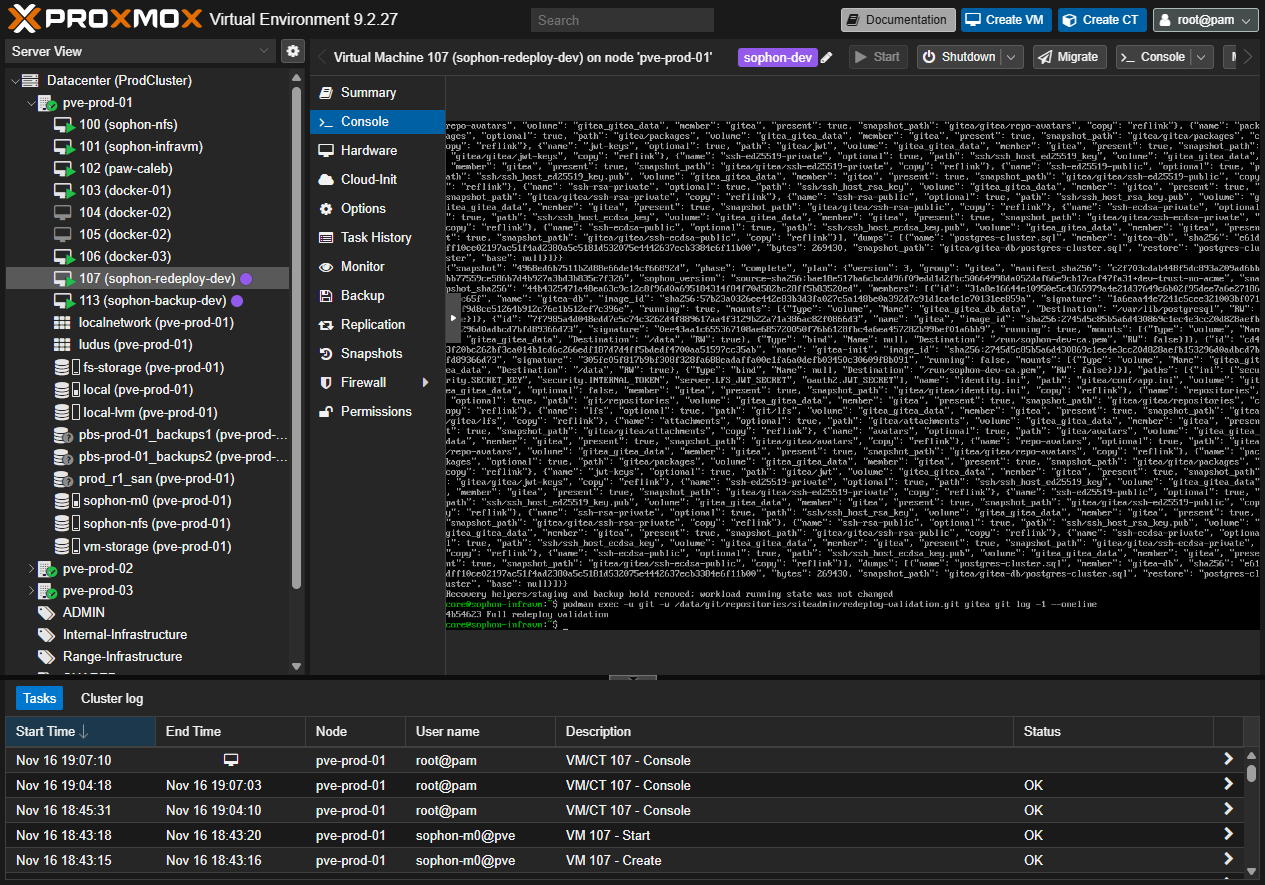
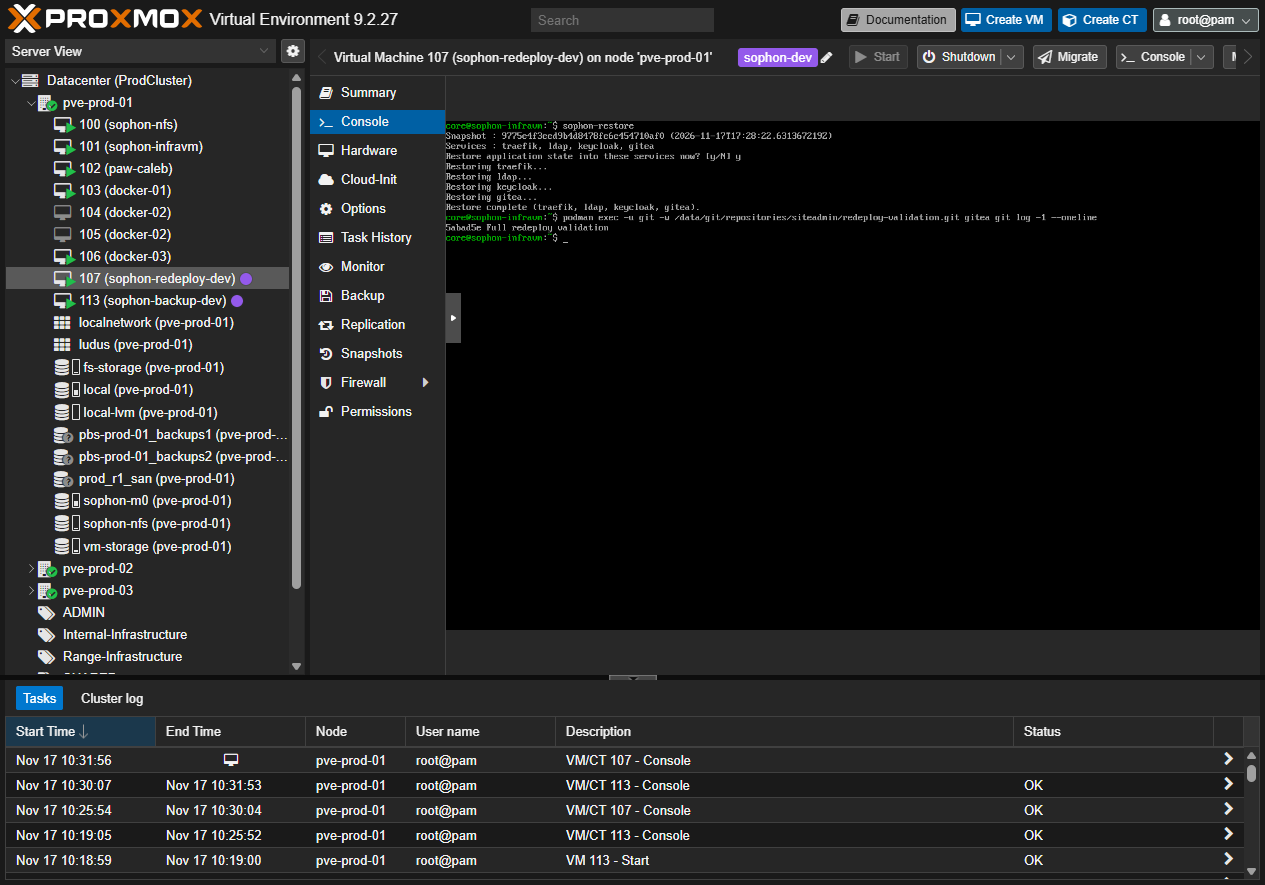
Simplify backup activation and sophon-restore UX, and document Kopia Web UI
- Default SOPHON_KOPIA_BACKUPS_ENABLED to true and verify the initial primary
  snapshot inside Configure so Day-1 deployment enables scheduled backups in a
  single pass (while offering to pause scheduled backups when a newly installed
  VM connects interactively to an existing repository before recovery).
- Automatically refresh the Kopia Web UI server index (/api/v1/repo/sync) after
  primary and coarse uploads so snapshots appear immediately in the UI.
- Add an inspect action to restore.py and make bare sophon-restore discover all
  stateful services in the snapshot, confirm once, and run plan/apply/cleanup
  in order automatically.
- Add Kopia Web UI browsing screenshots and clarified stateful-vs-reconstructible
  explanations to docs/operator-guide.md.

diff --git a/roles/kopia/files/restore.py b/roles/kopia/files/restore.py
@@ -584,9 +584,52 @@ def plan(api, root, environment, snapshot_id, group):
     return state
 
 
+GROUP_ORDER = ("traefik", "ldap", "keycloak", "gitea")
+
+
+def inspect_snapshot(environment, snapshot_id, selected_group=None):
+    runtime.connect(environment)
+    source = environment["KOPIA_CLIENT_USERNAME"] + "@" + environment["KOPIA_CLIENT_HOSTNAME"] + ":/sophon-state"
+    snapshots = json.loads(runtime.kopia(environment, "snapshot", "list", source, "--json"))
+    if not snapshots:
+        backup.fail("No snapshots exist for the configured source")
+    if snapshot_id == "latest":
+        chosen = max(snapshots, key=lambda value: value["endTime"])
+    else:
+        if not re.fullmatch(r"[a-f0-9]{32}", snapshot_id):
+            backup.fail("Snapshot must be latest or an exact snapshot ID")
+        matches = [value for value in snapshots if value["id"] == snapshot_id]
+        if not matches:
+            backup.fail(f"Snapshot {snapshot_id} not found for {source}")
+        chosen = matches[0]
+    tree = json.loads(runtime.kopia(environment, "show", chosen["rootEntry"]["obj"]))
+    manifest_obj = next((e["obj"] for e in tree.get("entries", []) if e.get("name") == "manifest.json"), None)
+    if not manifest_obj:
+        backup.fail("Snapshot is missing manifest.json")
+    manifest = json.loads(runtime.kopia(environment, "show", manifest_obj))
+    failed = {item["group"] for item in manifest.get("failures", [])}
+    groups = [
+        group for group in manifest.get("groups", [])
+        if (group.get("paths") or group.get("dumps")) and group["name"] not in failed
+    ]
+    if selected_group:
+        groups = [group for group in groups if group["name"] == selected_group]
+        if not groups:
+            backup.fail(f"Snapshot {chosen['id']} has no restorable state for group '{selected_group}'")
+    groups.sort(key=lambda g: (GROUP_ORDER.index(g["name"]) if g["name"] in GROUP_ORDER else len(GROUP_ORDER), g["name"]))
+    return {
+        "snapshot": chosen["id"],
+        "timestamp": chosen["endTime"],
+        "groups": [
+            {"name": g["name"], "paths": len(g.get("paths", [])), "dumps": len(g.get("dumps", []))}
+            for g in groups
+        ],
+    }
+
+
 def main():
     parser = argparse.ArgumentParser(description=__doc__)
-    parser.add_argument("action", choices=("plan", "apply", "status", "cleanup", "files"))
+    parser.add_argument("action", choices=("plan", "apply", "status", "cleanup", "files", "inspect"))
     parser.add_argument("--group")
     parser.add_argument("--snapshot", default="latest")
     parser.add_argument("--approve", action="store_true")
@@ -623,8 +666,11 @@ def main():
         if args.action == "status":
             print(json.dumps(state_file(root)))
             return 0
-        api = {"socket": "/socket/podman.sock", "timeout": 3600}
         environment = connection_environment(args.connection_stdin)
+        if args.action == "inspect":
+            print(json.dumps(inspect_snapshot(environment, args.snapshot, args.group)))
+            return 0
+        api = {"socket": "/socket/podman.sock", "timeout": 3600}
         with backup.locked(root):
             if args.action in ("apply", "cleanup") and not args.approve:
                 backup.fail("Destructive recovery actions require explicit approval (--approve)")

diff --git a/tests/test_restore.py b/tests/test_restore.py
@@ -170,6 +170,38 @@ class RestoreTests(unittest.TestCase):
             self.assertTrue(all(value["State"]["Running"] for value in members.values()))
             self.assertEqual(helpers, {})
 
+    def test_inspect_snapshot_returns_ordered_stateful_groups_and_omits_reconstructible_groups(self):
+        from unittest.mock import patch
+        snap_id = "d" * 32
+        manifest = {
+            "version": 3,
+            "failures": [],
+            "groups": [
+                {"name": "arcane", "paths": [], "dumps": []},
+                {"name": "gitea", "paths": [{"name": "repos"}], "dumps": [{"name": "db"}]},
+                {"name": "coredns", "paths": [], "dumps": []},
+                {"name": "traefik", "paths": [{"name": "acme"}], "dumps": []},
+                {"name": "keycloak", "paths": [], "dumps": [{"name": "db"}]},
+                {"name": "ldap", "paths": [], "dumps": [{"name": "ldif"}]},
+            ],
+        }
+
+        def fake_kopia(env, *args, **kwargs):
+            if args[:2] == ("snapshot", "list"):
+                return json.dumps([{"id": snap_id, "endTime": "2026-11-17T16:34:23Z",
+                                    "rootEntry": {"obj": "kroot"}}]).encode()
+            if args == ("show", "kroot"):
+                return json.dumps({"entries": [{"name": "manifest.json", "obj": "kman"}]}).encode()
+            if args == ("show", "kman"):
+                return json.dumps(manifest).encode()
+            raise AssertionError(args)
+
+        with patch.object(restore.runtime, "connect"), patch.object(restore.runtime, "kopia", side_effect=fake_kopia):
+            summary = restore.inspect_snapshot(
+                {"KOPIA_CLIENT_USERNAME": "backup", "KOPIA_CLIENT_HOSTNAME": "sophon"}, "latest")
+        self.assertEqual(summary["snapshot"], snap_id)
+        self.assertEqual([g["name"] for g in summary["groups"]], ["traefik", "ldap", "keycloak", "gitea"])
+
 
 if __name__ == "__main__":
     unittest.main()

diff --git a/src/backup_destination.py b/src/backup_destination.py
@@ -204,6 +204,7 @@ def prepare(values, *, root, confirm=None):
                       (f'{available // (1024 * 1024)} MiB available (not a backup-size guarantee).'
                        if available is not None else 'the server does not report free space.'))
                 result = repository(values, directory, keyfile, known_hosts, 'connect')
+                created_repository = False
                 if result.returncode and result.stderr.strip() == NOT_INITIALIZED:
                     if not unused_destination(sftp, path):
                         raise ValueError('No Kopia repository found, but the destination is not empty; refusing creation.')
@@ -214,7 +215,12 @@ def prepare(values, *, root, confirm=None):
                         raise ValueError('The destination changed during confirmation; refusing repository creation.')
                     check_repository_result(repository(values, directory, keyfile, known_hosts, 'create'), values)
                     result = repository(values, directory, keyfile, known_hosts, 'connect')
+                    created_repository = True
                 check_repository_result(result, values)
+                if (not created_repository and generated and confirm is not None
+                        and values.get('SOPHON_KOPIA_BACKUPS_ENABLED') == 'true'):
+                    if not confirm('Existing backup repository found on this new VM. Start scheduled backups immediately (answer n if restoring first)?'):
+                        values['SOPHON_KOPIA_BACKUPS_ENABLED'] = 'false'
         values[MATERIAL[0]] = base64.b64encode(keyfile.read_bytes()).decode()
         values[MATERIAL[1]] = base64.b64encode(known_hosts.read_bytes()).decode()
     print('Kopia repository preflight passed. Service deployment can proceed.')

diff --git a/roles/kopia/files/runtime.py b/roles/kopia/files/runtime.py
@@ -40,7 +40,7 @@ def startup_diagnostic(error, environment):
     return "KOPIA_STARTUP_ERROR_JSON=" + json.dumps({"message": detail})
 
 
-def health(environment):
+def _ui_session(environment):
     authorization = base64.b64encode((required(environment, "KOPIA_SERVER_USERNAME") + ":" +
                                      required(environment, "KOPIA_SERVER_PASSWORD")).encode()).decode()
     headers = {"Authorization": "Basic " + authorization}
@@ -50,11 +50,30 @@ def health(environment):
     if token is None:
         raise RuntimeError("Kopia UI did not issue a CSRF token")
     headers["X-Kopia-Csrf-Token"] = token[1]
+    return opener, headers
+
+
+def health(environment):
+    opener, headers = _ui_session(environment)
     with opener.open(urllib.request.Request("http://127.0.0.1:51515/api/v1/repo/status", headers=headers),
                      timeout=10) as response:
         if json.load(response).get("connected") is not True:
             raise RuntimeError("Kopia repository is disconnected")
     print("Repository connected")
+
+
+def sync_ui(environment):
+    if not environment.get("KOPIA_SERVER_USERNAME") or not environment.get("KOPIA_SERVER_PASSWORD"):
+        return
+    try:
+        opener, headers = _ui_session(environment)
+        request = urllib.request.Request(
+            "http://127.0.0.1:51515/api/v1/repo/sync", data=b"{}",
+            headers=headers | {"Content-Type": "application/json"}, method="POST")
+        with opener.open(request, timeout=30) as response:
+            response.read()
+    except OSError:
+        pass
 
 
 def connect(environment):

diff --git a/src/deployment.py b/src/deployment.py
@@ -75,7 +75,7 @@ FIELDS = {
     'SOPHON_KOPIA_CLIENT_USERNAME': ('Backup source username', 'Backup', 'text', 'backup', True),
     'SOPHON_KOPIA_CLIENT_HOSTNAME': ('Backup source hostname', 'Backup', 'text', 'sophon', True),
     'SOPHON_KOPIA_EXTRA_VOLUMES': ('Additional site workload volumes (JSON array)', 'Backup', 'text', '[]', False),
-    'SOPHON_KOPIA_BACKUPS_ENABLED': ('Enable scheduled backups (after first verified backup)', 'Backup', 'choice', 'false', True),
+    'SOPHON_KOPIA_BACKUPS_ENABLED': ('Enable scheduled backups', 'Backup', 'choice', 'true', True),
     'SOPHON_KOPIA_SNAPSHOT_INTERVAL': ('Snapshot interval', 'Backup', 'text', '6h', True),
     'SOPHON_KOPIA_COARSE_ENABLED': ('Enable weekly live Btrfs volume snapshots (true/false)', 'Backup', 'choice', 'false', False),
     'SOPHON_KOPIA_COARSE_VOLUMES_DIR': ('Host Btrfs Podman volumes subvolume (read-only source)', 'Backup', 'text',

diff --git a/tests/test_kopia.py b/tests/test_kopia.py
@@ -117,6 +117,8 @@ class KopiaRoleTests(unittest.TestCase):
                 "args = sys.argv[1:]\n"
                 "if 'inspect' in args:\n"
                 f"    print('unhealthy' if pathlib.Path({str(state)!r}).exists() else 'healthy')\n"
+                "elif 'exec' in args:\n"
+                "    print(json.dumps({'status': 'complete', 'failures': []}))\n"
                 "elif 'logs' in args:\n"
                 "    sys.stderr.write('KOPIA_STARTUP_ERROR_JSON=' + json.dumps({\n"
                 "        'message': 'invalid repository password FIXTURE_SECRET_VALUE fixture-private-key'}) + '\\n')\n"

diff --git a/tests/test_backup_destination.py b/tests/test_backup_destination.py
@@ -169,6 +169,12 @@ class DestinationTests(unittest.TestCase):
         self.assertFalse((self.root / 'credentials/kopia/id_ed25519').exists())
         self.assertNotIn(material.decode(), output)
 
+    def test_existing_repository_on_new_vm_can_pause_scheduled_backups_until_restore(self):
+        self.initialized = True
+        self.answers = [True, True, False]
+        values, _ = self.prepare()
+        self.assertEqual(values['SOPHON_KOPIA_BACKUPS_ENABLED'], 'false')
+
 
 if __name__ == '__main__':
     unittest.main()

diff --git a/roles/kopia/files/backup.py b/roles/kopia/files/backup.py
@@ -614,6 +614,8 @@ def run(environment):
         manifest["upload_status"] = "complete"
         write_json(root / "last-run.json", manifest)
         shutil.rmtree(result["path"])
+        import runtime
+        runtime.sync_ui(environment)
         print(json.dumps({"status": manifest["status"], "failures": manifest["failures"],
                           "snapshot": manifest["snapshot"]}))
         return 1 if manifest["failures"] else 0

diff --git a/roles/kopia/files/coarse.py b/roles/kopia/files/coarse.py
@@ -202,6 +202,7 @@ def run(environment):
                                                    "source": identity, "run": pending["run"]})
         (work / "pending.json").unlink()
         cleanup_staging(work)
+        runtime.sync_ui(environment)
         print(json.dumps({"status": "complete", "snapshot": result["id"], "source": identity}), flush=True)
 
 

diff --git a/docs/operator-guide.md b/docs/operator-guide.md
@@ -144,7 +144,7 @@ After applying the static address, `sophon-deploy` finishes host bootstrap (`sop
 
 1. **Internet access (`[Y/n]`):** Keep **Y** for connected sites (Let's Encrypt DNS-01 + optional Cloudflare tunnel), or answer **n** for air-gapped/offline sites using a pre-issued `acme.json` (`SOPHON_CERTS` disk).
 2. **Shared service password (`[y/N]`):** Answer **y** if you want to enter one `12+` character password once for local admin/database accounts, or **n** to enter separate passwords per service. Note that the **Kopia repository encryption password** is always entered separately—store it in your password manager, as backups cannot be decrypted without it.
-3. **Backup target (`SOPHON_KOPIA_SFTP_*`):** Enter your SFTP server IP/hostname, port (`22`), username (`sophon-backup`), and chroot-relative path (`/repository`). Leave `SOPHON_KOPIA_BACKUPS_ENABLED` at `false` until you verify your first snapshot (or enable `SOPHON_KOPIA_COARSE_ENABLED=true` if you also want weekly live Btrfs volume snapshots).
+3. **Backup target (`SOPHON_KOPIA_SFTP_*`):** Enter your SFTP server IP/hostname, port (`22`), username (`sophon-backup`), and chroot-relative path (`/repository`). `SOPHON_KOPIA_BACKUPS_ENABLED` defaults to `true`: `sophon-deploy` automatically runs and verifies the initial snapshot at the end of deployment and starts the 6-hour schedule in a single pass (no second rerun needed). Optionally set `SOPHON_KOPIA_COARSE_ENABLED=true` if you also want weekly zero-downtime Btrfs volume snapshots.
 
 Before deploying any container stack, `sophon-deploy` generates `/var/lib/sophon/project/credentials/kopia/id_ed25519` (`0600`), prints a ready-to-paste `authorized_keys` line, and scans the SFTP server's SSH host keys:
 
@@ -186,30 +186,34 @@ Next, verify Git hosting at `https://git.<domain>` (using **Sign In With Keycloa
 
 ---
 
-## 6. Backups & Zero-Downtime Weekly Btrfs Snapshots
+## 6. Kopia Web UI, On-Demand Backups & Live Btrfs Snapshots
 
-### 6.1 Run and verify the first primary backup
+### 6.1 Browse snapshots & download individual files in the Kopia Web UI
 
-From the InfraVM console (logged in as `core`), trigger an immediate primary v3 snapshot and inspect its report:
+When `sophon-deploy` finishes with `SOPHON_KOPIA_BACKUPS_ENABLED=true` (the default), Sophon has already executed and verified your first primary backup and enabled the automatic `6h` schedule.
+
+To browse snapshot history or download individual files from a browser, open `https://kopia.<domain>` and sign in with your Kopia UI username (`admin`) and password. Switch the filter button at the top left from **Local Snapshots** to **All Snapshots** to view `/sophon-state` (primary 6-hour backups) and, if enabled, `/sophon-coarse` (weekly live Btrfs volume snapshots):
+
+![Kopia Web UI showing /sophon-state and /sophon-coarse snapshot sources](./images/10b-kopia-ui-snapshots.png)
+
+Click `/sophon-state` and select any snapshot timestamp to inspect its directory tree or download individual files directly:
+
+![Browsing inside a /sophon-state snapshot in the Kopia Web UI](./images/10c-kopia-ui-browse.png)
+
+> **What to do in the Kopia Web UI vs. the CLI:**
+> - **Use the Kopia Web UI** for inspecting snapshot history, checking sizes/retention, and downloading individual files (for example grabbing one file out of `gitea/` or inspecting `manifest.json`).
+> - **Do not use the Kopia Web UI's "Snapshot Now" or "Restore" buttons to back up or restore live containers**, and do not edit repository settings in the UI (Sophon reconciles configuration from code). Kopia itself is a file uploader whose container mounts live volumes **read-only (`:ro`)**: it cannot run `pg_dumpall`/`psql` for PostgreSQL or `slapcat`/`slapadd` for OpenLDAP, pause/restart containers, or merge generated secrets into `app.ini`. Sophon's collector (`backup.py`) and recovery command (`sophon-restore`) handle all database exports/imports and container orchestration automatically.
+
+### 6.2 Trigger an on-demand backup or inspect Btrfs snapshot status
+
+From the InfraVM console (logged in as `core`), you can trigger an extra primary backup or inspect the latest run report at any time:
 
 ```bash
 podman exec kopia python3 /app/backup.py run
 podman exec kopia cat /source/last-run.json
-podman exec kopia kopia snapshot list --all
 ```
 
-Confirm `"status": "complete"` and `"failures": []`. Notice that `backup.py run` also prints every undeclared volume (such as `arcane_arcane_data` and database data directories that are backed up via logical dumps rather than raw file copies) so omissions are always visible.
-
-### 6.2 Enable scheduled backups
-
-Once your first snapshot succeeds, rerun `sophon-deploy` to enable the automatic 6-hour schedule (and optionally weekly live Btrfs snapshots):
-
-- Set `SOPHON_KOPIA_BACKUPS_ENABLED` to `true` (default interval `6h`).
-- Optionally set `SOPHON_KOPIA_COARSE_ENABLED` to `true` to enable weekly zero-downtime read-only Btrfs subvolume snapshots (`backup@sophon:/sophon-coarse`, keeping the latest 4).
-
-Because the client SSH key and verified SFTP host pins are already saved under `/var/lib/sophon/project/credentials/kopia`, rerunning `sophon-deploy` reuses them automatically without re-prompting for pairing or repository creation.
-
-To check Btrfs filesystem and coarse-snapshot status at any time:
+If you enabled weekly zero-downtime read-only Btrfs subvolume snapshots (`SOPHON_KOPIA_COARSE_ENABLED=true`), you can inspect `/var` mount options and the latest weekly snapshot status with:
 
 ```bash
 findmnt /var
@@ -220,43 +224,39 @@ cat /var/home/core/sophon-coarse/last-run.json
 
 ## 7. Disaster Recovery (`sophon-restore`)
 
-If InfraVM or its virtual disk is completely lost, rebuild from code first and then restore application state explicitly. `sophon-deploy` **never** restores data automatically.
+If InfraVM or its virtual disk is completely lost, rebuild from code first and then restore application state with a single command. `sophon-deploy` **never** restores data automatically.
 
 ### 7.1 Rebuild InfraVM & reconnect to the existing Kopia repository
 
 1. Provision a new blank VM with `sophon-installer.iso` and `sophon-deployment.iso` (Section 3) and complete first-boot password and network setup (Sections 4.1–4.2).
-2. Run `sophon-deploy` using the same domain, realm, and SFTP repository settings (`SOPHON_KOPIA_PASSWORD`, `SOPHON_KOPIA_SFTP_HOST`, `SOPHON_KOPIA_SFTP_USERNAME`, `SOPHON_KOPIA_SFTP_PATH`), **keeping `SOPHON_KOPIA_BACKUPS_ENABLED=false` and `SOPHON_KOPIA_COARSE_ENABLED=false` during recovery** so scheduled jobs do not write a blank-state snapshot before restoration finishes.
+2. Run `sophon-deploy` using the same domain, realm, and SFTP repository settings (`SOPHON_KOPIA_PASSWORD`, `SOPHON_KOPIA_SFTP_HOST`, `SOPHON_KOPIA_SFTP_USERNAME`, `SOPHON_KOPIA_SFTP_PATH`).
 3. Because this is a new VM, `sophon-deploy` generates a **new** `ed25519` SSH key. On your Sophon Backup Server console, run `sophon-authorize-key`, paste the newly displayed `restrict ssh-ed25519 ...` line, and confirm the server's `SHA256:...` host-key fingerprints on InfraVM.
-4. `sophon-deploy` detects the **existing** Kopia repository at `/repository` automatically (it will **not** prompt to create one) and deploys fresh, healthy stacks.
+4. `sophon-deploy` automatically detects the **existing** Kopia repository at `/repository` (it will **not** prompt to create one) and asks:
+   `Existing backup repository found on this new VM. Start scheduled backups immediately (answer n if restoring first)? [y/N]`
+   Press **Enter** (`n`) so scheduled backups stay paused until you finish restoring your data.
 
-### 7.2 Restore stateful workload groups
+### 7.2 Run `sophon-restore`
 
-Log in to the rebuilt InfraVM console as `core` (never with `sudo`) and inspect available snapshots:
+Of Sophon's services, `coredns`, `cloudflared`, `arcane`, and `kopia` hold no user data of their own (notice `0 Files` next to `arcane/`, `coredns/`, and `kopia/` in the Kopia UI screenshot above)—they are already 100% rebuilt as soon as `sophon-deploy` finishes. Your irreproducible data lives in the four stateful services:
+
+- **`traefik`** — issued TLS certificate (`acme.json`)
+- **`ldap`** — directory users, passwords, and groups
+- **`keycloak`** — SSO realm and OIDC clients
+- **`gitea`** — Git repositories, issues, SSH/JWT keys, and database
+
+Log in to the rebuilt InfraVM console as `core` (never with `sudo`) and run:
 
 ```bash
-podman exec kopia kopia snapshot list --all
+sophon-restore
 ```
 
-Sophon has four stateful backup groups (`traefik`, `ldap`, `keycloak`, `gitea`); `coredns`, `cloudflared`, `arcane`, and `kopia` are fully reconstructed by `sophon-deploy`. Restore each stateful group using `plan`, `apply --approve`, and `cleanup --approve`:
+`sophon-restore` inspects the latest snapshot, lists the stateful services found in it, asks once for confirmation (`[y/N]`), and automatically restores all of them in order—pausing each service briefly, restoring files via Btrfs CoW reflinks with numeric ownership preserved, replaying PostgreSQL/OpenLDAP dumps, restarting the containers, and cleaning up temporary staging:
 
-```bash
-for group in traefik ldap keycloak gitea; do
-    sophon-restore plan --group "$group"
-    sophon-restore apply --group "$group" --approve
-    sophon-restore cleanup --approve
-done
-```
+![Interactive single-command sophon-restore recovering traefik, ldap, keycloak, and gitea](./images/11-sophon-restore.png)
 
-For each group, `sophon-restore`:
+*(Need to roll back only one service or use a specific older snapshot? Run `sophon-restore --group gitea` or `sophon-restore --snapshot <SNAPSHOT_ID>`. Low-level `plan`, `apply`, `status`, and `cleanup` subcommands also remain available—see the [Kopia role reference](../roles/kopia/README.md#explicit-group-restoration).)*
 
-1. Places a durable recovery hold (`/source/restore.json`) blocking primary/coarse backup runs until cleanup finishes.
-2. Verifies running container names, immutable image digests, backup declarations, and volume mounts against the snapshot manifest.
-3. Stops the target group's writers, restores declared irreproducible files using Btrfs CoW reflinks with numeric ownership preserved (merging generated application secrets such as Gitea's `SECRET_KEY` / `INTERNAL_TOKEN` into the freshly rendered `app.ini`), replays native `postgres-cluster.sql` / `config.ldif` + `data.ldif` dumps, and restarts the group.
-4. Removes temporary staging and clears the backup hold on `sophon-restore cleanup --approve`.
-
-![Live console execution of sophon-restore recovering Gitea repository and commit history](./images/11-sophon-restore.png)
-
-### 7.3 Post-recovery verification & schedule re-enablement
+### 7.3 Verify & resume scheduled backups
 
 1. Sign in to `https://arcane.<domain>` and `https://git.<domain>` via Keycloak SSO and verify your LDAP users, Keycloak clients, TLS certificates, and Git repositories/commit history match pre-loss state.
-2. Rerun `sophon-deploy` with `SOPHON_KOPIA_BACKUPS_ENABLED=true` (and `SOPHON_KOPIA_COARSE_ENABLED=true` if used) to resume scheduled backups from the recovered instance.
+2. Rerun `sophon-deploy` accepting the default `SOPHON_KOPIA_BACKUPS_ENABLED=true` (and `SOPHON_KOPIA_COARSE_ENABLED=true` if used) to resume scheduled backups on the recovered VM.

diff --git a/docs/inputs.md b/docs/inputs.md
@@ -114,7 +114,7 @@ These are Configure inputs on InfraVM, not laptop `.env` settings:
 | `SOPHON_KOPIA_CREATE_REPOSITORY` | Optional unattended creation confirmation (`true`); default `false`. Used only for an exact missing repository on an unused path, never an existing repository or other error. No reset/rerun step is needed. |
 | `SOPHON_KOPIA_CLIENT_USERNAME`, `_CLIENT_HOSTNAME` | Stable snapshot source identity, default `backup@sophon`. Preserve it on reruns/recovery. |
 | `SOPHON_KOPIA_EXTRA_VOLUMES` | Site workload volume names as a JSON array, default `[]`. Core roles declare their own list. These become read-only mounts, not host paths. Retain the list in site IaC and redeploy after changes. |
-| `SOPHON_KOPIA_BACKUPS_ENABLED` | `false` until a first full backup is verified. Set `true` to enable scheduled backups; keep the existing value on reruns. |
+| `SOPHON_KOPIA_BACKUPS_ENABLED` | Default `true` (Configure runs and verifies the initial primary snapshot automatically and enables the schedule in one step; interactive pairing of a new VM to an existing repository offers to pause until `sophon-restore` runs). |
 | `SOPHON_KOPIA_SNAPSHOT_INTERVAL` | Default `6h`; positive integer with `s`, `m`, `h` or `d` suffix. The container supervisor schedules collector runs, not raw filesystem snapshots. |
 | `SOPHON_KOPIA_COARSE_ENABLED` | Optional last-resort weekly live Btrfs subvolume snapshot layer, default `false`, independent of the primary schedule. |
 | `SOPHON_KOPIA_COARSE_VOLUMES_DIR` | Host rootless Podman Btrfs `volumes` subvolume (default `/var/home/core/.local/share/containers/storage/volumes`), mounted read-only. |
@@ -166,7 +166,7 @@ before expecting them to be protected. Configure never restores state.
 
 ### Console recovery inputs
 
-`sophon-restore plan --group GROUP --snapshot latest` uses the existing `kopia`
+`sophon-restore` (or low-level `sophon-restore plan --group GROUP --snapshot latest`) uses the existing `kopia`
 container's connection settings, or the same `SOPHON_KOPIA_*` destination,
 password/key/pins and stable source identity overrides above when it is absent.
 It never uses Arcane or Gitea. Supply `SOPHON_RESTORE_SOURCE_VOLUME` when the

diff --git a/roles/kopia/README.md b/roles/kopia/README.md
@@ -63,12 +63,16 @@ reports the volume name and asks you to add it to
 staging for diagnosis. Never treat a healthy UI/repository connection as proof
 that the last backup was complete.
 
-After verifying a first manual backup, set `SOPHON_KOPIA_BACKUPS_ENABLED=true`
-and rerun Configure. The container supervisor runs backups at
-`SOPHON_KOPIA_SNAPSHOT_INTERVAL` (default `6h`); positive integer `s`, `m`, `h`
-or `d` intervals are accepted. It logs nonzero runs and keeps the UI server
-independent. Native Kopia scheduling is disabled: UI “Snapshot now” on the
-logical source is not the collector. Use the command above.
+`SOPHON_KOPIA_BACKUPS_ENABLED` defaults to `true`: Configure waits for and
+verifies the initial primary snapshot before succeeding, leaving the `6h`
+schedule active in a single deployment pass (when a newly installed VM connects
+to an existing repository interactively, `sophon-deploy` offers to pause
+scheduled backups until `sophon-restore` runs). The container supervisor runs
+backups at `SOPHON_KOPIA_SNAPSHOT_INTERVAL` (default `6h`); positive integer `s`,
+`m`, `h` or `d` intervals are accepted. It logs nonzero runs, refreshes the UI
+server's index after each upload, and keeps the UI server independent. Native
+Kopia scheduling is disabled: UI “Snapshot now” on the logical source is not the
+collector. Use the command above.
 
 Snapshots use stable identity `backup@sophon:/sophon-state` by default, even
 though each run has a unique immutable staging directory. Retention remains
@@ -291,7 +295,15 @@ cross-version database/application migration is not supported. Stop any
 independently deployed writers sharing the group's state and do not run
 Configure or other engine mutations concurrently with recovery.
 
-On the console, as the rootless Podman owner (`core`, never `sudo`):
+On the console, as the rootless Podman owner (`core`, never `sudo`), restore all
+stateful groups interactively with a single command (or pass `--group gitea` /
+`--snapshot SNAPSHOT_ID` / `--yes`):
+
+```sh
+sophon-restore
+```
+
+Low-level phase commands also remain available for step-by-step inspection:
 
 ```sh
 sophon-restore plan --group gitea --snapshot latest
